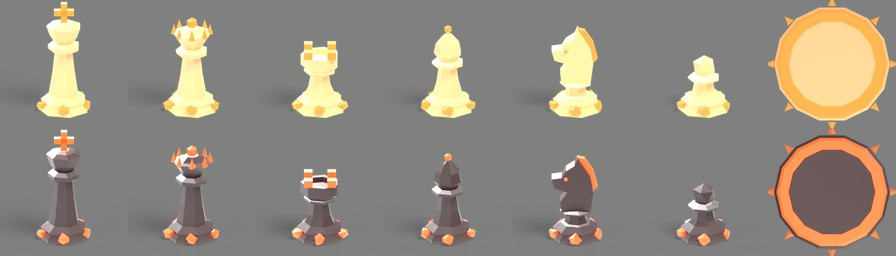
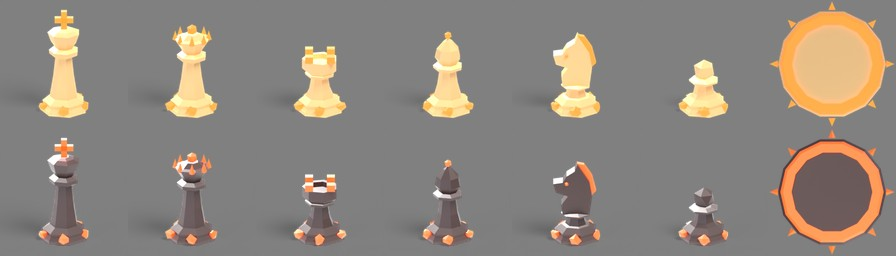
Hoàn tất atlas quân 2D cho 8 bộ skin và tài liệu (T-126a)

diff --git a/tools/blender/kydao/pieces2d.py b/tools/blender/kydao/pieces2d.py
@@ -14,16 +14,16 @@ Tham số (init_globals):
 
 Quy ước atlas (xem README.md): 896x256, lưới 7 cột x 2 hàng, mỗi ô 128x128, nền trong suốt.
     Hàng 0 = bên a (sáng), hàng 1 = bên b (tối). Cột: K Q R B N P disc.
-    Quân cờ vua: nhìn từ phía trước chếch xuống 22 độ, trực giao, 72 px/đơn vị mô hình, đáy quân cách mép dưới ô 10 px
-    (tức đáy ở y=118), Mã quay mặt sang trái. disc: nhìn thẳng từ trên xuống, đường kính 116 px, tâm ô.
+    Quân cờ vua: nhìn từ phía trước chếch xuống 22 độ, trực giao, 67 px/đơn vị mô hình, đáy quân cách mép dưới ô 10 px
+    (tức đáy ở y=118), Mã quay mặt sang trái. disc: nhìn thẳng từ trên xuống, đường kính thân 108 px (kể cả gai ~124 px), tâm ô.
 Mỗi quân render 256x256 rồi thu về 128 (siêu lấy mẫu) bằng Pillow của Python hệ thống (`python`), bước đóng gói.
 Làm việc trong cảnh riêng 'KyDaiPieces2D', không lưu .blend.
 """
 import json, math, os, runpy, subprocess, sys, tempfile
 
 ELEV = math.radians(22.0)
-PPU = 72.0              # px / đơn vị mô hình ở ô 128
-DISC_D = 116.0          # đường kính disc (px)
+PPU = 67.0              # px / đơn vị mô hình ở ô 128 (Vua cao ~108 px kể cả thánh giá)
+DISC_D = 108.0          # đường kính thân disc (px); gai trang trí nhô thêm ~8 px mỗi bên nên vẫn nằm trong ô
 BOTTOM_Y = 118          # hàng đáy quân trong ô 128 (cách mép dưới 10 px)
 KINDS = ['K', 'Q', 'R', 'B', 'N', 'P', 'disc']
 TILE, SS = 128, 2       # ô cuối và hệ số siêu lấy mẫu
@@ -48,9 +48,15 @@ def render_tiles(REPO, only, samples, tmp):
                 for k, ob in objs.items():
                     ob.hide_render = (k != kind)
                 path = os.path.join(tmp, '%s_%s_%s.png' % (sid, side, kind))
-                _shoot(bpy, sc, objs[kind], kind, side, path)
+                _shoot(bpy, sc, objs[kind], kind, side, path, _expo(lib['rgb'](p[side]['base']), lib['rgb'](p[side]['accent'])))
             out[sid + side] = True
     return out
+
+
+def _expo(c, a):
+    """Hệ số sáng theo độ chói màu thân và màu chi tiết: màu rất sáng (ngọc, băng) giảm đèn để khỏi cháy trắng."""
+    lum = lambda x: 0.2126 * x[0] + 0.7152 * x[1] + 0.0722 * x[2]
+    return min(1.0, 0.5 / max(lum(c), 0.9 * lum(a), 0.01))
 
 
 def _clean_disc(ob):
@@ -127,7 +133,7 @@ def _area(bpy, sc, name, loc, target, size, energy, color=(1, 1, 1)):
     return ob
 
 
-def _shoot(bpy, sc, ob, kind, side, path):
+def _shoot(bpy, sc, ob, kind, side, path, expo=1.0):
     from mathutils import Vector
     # dọn đèn, máy quay, sàn cũ của lần chụp trước
     for o in list(sc.collection.all_objects):
@@ -157,7 +163,7 @@ def _shoot(bpy, sc, ob, kind, side, path):
         key_t = (0, 0, 0.45)
     dark = side == 'b'
     # ánh sáng 3 điểm: chính trên-trái phía trước, phụ bên phải, ven phía sau
-    k = (0.5 if dark else 0.3) if top else 1.0       # disc nhìn từ trên: mặt phẳng hứng sáng trực diện nên giảm đèn
+    k = ((0.5 if dark else 0.3) if top else 1.0) * expo      # disc nhìn từ trên: mặt phẳng hứng sáng trực diện nên giảm đèn
     _area(bpy, sc, 'key', (-1.9, 1.7, 4.6), key_t, 2.6, (520 if dark else 250) * k, (1.0, 0.96, 0.9))
     f = _area(bpy, sc, 'fill', (3.2, 2.2, 1.6), key_t, 3.0, (260 if dark else 90) * k, (0.75, 0.85, 1.0))
     r = _area(bpy, sc, 'rim', (1.2, -3.2, 3.0), key_t, 1.6, (900 if dark else 380) * k, (1.0, 1.0, 1.0))
@@ -172,6 +178,7 @@ def _shoot(bpy, sc, ob, kind, side, path):
         gr = bpy.data.objects.new('shadow', me)
         sc.collection.objects.link(gr)
         gr.is_shadow_catcher = True
+    sc.world.node_tree.nodes['Background'].inputs[1].default_value = 0.75 * expo
     sc.render.filepath = path
     bpy.ops.render.render(write_still=True)
 

diff --git a/tools/blender/kydao/README.md b/tools/blender/kydao/README.md
@@ -42,3 +42,17 @@ runpy.run_path(r'<repo>/tools/blender/kydao/build.py', init_globals={'REPO': r'<
 1. Thêm mục vào `FIELDS` hoặc `PIECES` trong `public/js/kydao-skins.js`.
 2. Sân: thêm một nhánh `fx` trong `ground_material` và `build_field` (hoặc dùng lại `fx` có sẵn). Quân: thêm một dòng vào `STYLE`.
 3. Chạy lại script với mã mới; kiểm ngân sách ở `docs/KE-HOACH-KY-DAI.md` §4.5 (script in số tam giác và dung lượng).
+
+## Atlas quân 2D (`pieces2d.py`, T-126a)
+
+Render quân cờ 2D từ mô hình 3D của `build.py` (Cycles, 64 mẫu, nền trong suốt, siêu lấy mẫu 2x). Chạy trong Blender:
+
+    import runpy; runpy.run_path(r'<repo>/tools/blender/kydao/pieces2d.py', init_globals={'REPO': r'<repo>', 'ONLY': ['magma']})
+
+Tham số: `ONLY` (danh sách mã, mặc định cả 8 bộ), `PREVIEW` (24 mẫu, ảnh xem thử vào thư mục tạm, không đụng `public/`), `DOCS` (bộ được ghi thêm `docs/ky-dai/anh/quan-2d-<id>.jpg`), `SAMPLES`. Mỗi bộ mất khoảng một phút; gọi từng 1-2 bộ một lần. Bước ghép atlas gọi `python` hệ thống (cần Pillow).
+
+Đầu ra `public/img/kydao/pieces2d/<id>.webp`: 896x256, lưới **7 cột x 2 hàng**, mỗi ô **128x128**, nền trong suốt.
+- Hàng 0 = bên `a` (sáng), hàng 1 = bên `b` (tối). Cột: `K Q R B N P disc`.
+- Quân cờ vua: nhìn từ phía trước chếch xuống 22 độ, 67 px/đơn vị mô hình, đáy quân ở y=118 (cách mép dưới 10 px), canh giữa theo chiều ngang. Chiều cao (kể cả thánh giá, chóp): K 108, Q 93, B 86, N 86, R 72, P 58 px. Mã quay mặt sang trái.
+- `disc`: nhìn thẳng từ trên xuống, tâm ô, thân tròn đường kính 108 px (gai trang trí của magma, wood, ice, coral, storm nhô tới 122 px), mặt trên trống.
+- Có bóng đổ mềm nhỏ dưới chân quân (alpha thấp, lệch sang trái ảnh). Không sửa tay atlas; sửa script rồi chạy lại.
